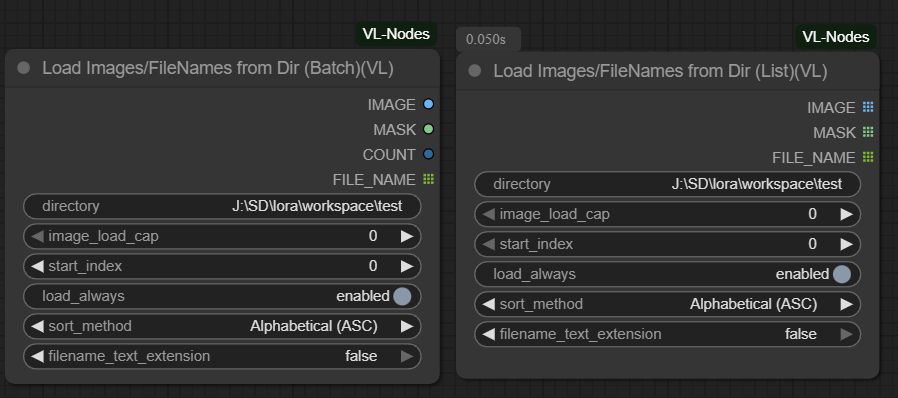
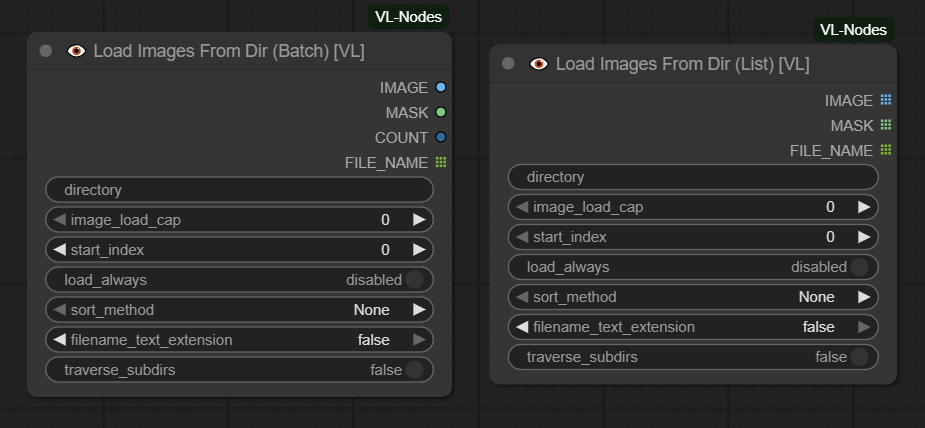
Polishing commit

Changed region(s): [[0.0, 0.0302, 0.9978, 0.9648], [0.8731, 0.0603, 0.9666, 0.1206]]

diff --git a/nodes/general_nodes.py b/nodes/general_nodes.py
@@ -48,7 +48,7 @@ class TextSave_VL:
     OUTPUT_NODE = True
     RETURN_TYPES = ()
     FUNCTION = "save_text_file"
-    CATEGORY = "VL-Nodes/Batch"
+    CATEGORY = "VL-Nodes 👁🗨/Batch"
 
     def save_text_file(self, text, path, filename_prefix='ComfyUI', filename_delimiter='_', filename_number_padding=4, file_extension='.txt', encoding='utf-8', filename_suffix='', skip_overwrite=False):
         if not os.path.exists(path):
@@ -140,7 +140,7 @@ class LoadImagesFromDirBatch_VL:
     OUTPUT_IS_LIST = (False, False, False, True)
     FUNCTION = "load_images"
 
-    CATEGORY = "VL-Nodes/Batch"
+    CATEGORY = "VL-Nodes 👁🗨/Batch"
 
     @classmethod
     def IS_CHANGED(cls, **kwargs):
@@ -278,7 +278,7 @@ class LoadImagesFromDirList_VL:
 
     FUNCTION = "load_images"
 
-    CATEGORY = "VL-Nodes/Batch"
+    CATEGORY = "VL-Nodes 👁🗨/Batch"
 
     @classmethod
     def IS_CHANGED(cls, **kwargs):
@@ -371,7 +371,7 @@ class VLNodesFreeMemoryAPI:
     RETURN_TYPES = (any_type,)
     RETURN_NAMES = ("output",)
     FUNCTION = "free_memory"
-    CATEGORY = "VL-Nodes"
+    CATEGORY = "VL-Nodes 👁🗨"
     OUTPUT_NODE = True
 
     def unload_models(self):
@@ -442,8 +442,8 @@ NODE_CLASS_MAPPINGS = {
 }
 
 NODE_DISPLAY_NAME_MAPPINGS = {
-    "VLNodesFreeMemoryAPI": "Free Memory (VL Nodes)",
-    "LoadImagesFromDirBatch_VL": "Load Images From Dir (Batch) [VL]",
-    "LoadImagesFromDirList_VL": "Load Images From Dir (List) [VL]",
-    "TextSave_VL": "Save Text Files [VL]",
+    "VLNodesFreeMemoryAPI": "👁 Free Memory (VL Nodes)",
+    "LoadImagesFromDirBatch_VL": "👁 Load Images From Dir (Batch) [VL]",
+    "LoadImagesFromDirList_VL": "👁 Load Images From Dir (List) [VL]",
+    "TextSave_VL": "👁 Save Text Files [VL]",
 }

diff --git a/nodes/gguf_nodes.py b/nodes/gguf_nodes.py
@@ -67,7 +67,7 @@ class GGUF_VLM_ModelLoader:
     RETURN_TYPES = ("GGUF_MODEL",)
     RETURN_NAMES = ("gguf_model",)
     FUNCTION = "load_model"
-    CATEGORY = "VL-Nodes/GGUF"
+    CATEGORY = "VL-Nodes 👁🗨/GGUF"
 
     def unload(self):
         """Unloads the GGUF model and releases associated resources."""
@@ -213,7 +213,7 @@ class GGUF_VLM_ImageToText:
     RETURN_NAMES = ("text", "thinking", "text_list", "thinking_list")
     OUTPUT_IS_LIST = (False, False, True, True)
     FUNCTION = "generate_description"
-    CATEGORY = "VL-Nodes/GGUF"
+    CATEGORY = "VL-Nodes 👁🗨/GGUF"
 
     def generate_description(self, gguf_model, image, resize_image, enable_thinking, system_prompt, special_captioning_token, seed, prompt, max_tokens, temperature, top_k, top_p, min_p, repeat_penalty):
         pil_images = tensor2pil(image)
@@ -350,6 +350,6 @@ NODE_CLASS_MAPPINGS = {
 }
 
 NODE_DISPLAY_NAME_MAPPINGS = {
-    "GGUF_VLM_ModelLoader": "Load GGUF VLM Model",
-    "GGUF_VLM_ImageToText": "GGUF VLM Image to Text",
+    "GGUF_VLM_ModelLoader": "👁 Load GGUF VLM Model",
+    "GGUF_VLM_ImageToText": "👁 GGUF VLM Image to Text",
 }

diff --git a/nodes/ovis25_nodes.py b/nodes/ovis25_nodes.py
@@ -63,7 +63,7 @@ class Ovis25ModelLoader:
     RETURN_TYPES = ("OVIS25_MODEL",)
     RETURN_NAMES = ("ovis25_model",)
     FUNCTION = "load_model"
-    CATEGORY = "VL-Nodes/Ovis-2.5"
+    CATEGORY = "VL-Nodes 👁🗨/Ovis-2.5"
 
     def unload(self):
         """Unloads the Ovis-2.5 model and releases associated resources."""
@@ -196,7 +196,7 @@ class Ovis25ImageToText:
     RETURN_NAMES = ("text", "thinking", "text_list", "thinking_list")
     OUTPUT_IS_LIST = (False, False, True, True)
     FUNCTION = "generate_text"
-    CATEGORY = "VL-Nodes/Ovis-2.5"
+    CATEGORY = "VL-Nodes 👁🗨/Ovis-2.5"
 
     def generate_text(self, ovis25_model, image, prompt, special_captioning_token, seed, resize_image, enable_thinking, enable_thinking_budget, max_new_tokens, thinking_budget, temperature, top_p, do_sample):
         model_data = ovis25_model
@@ -312,6 +312,6 @@ NODE_CLASS_MAPPINGS = {
 }
 
 NODE_DISPLAY_NAME_MAPPINGS = {
-    "Ovis25ModelLoader": "Load Ovis-2.5 Model",
-    "Ovis25ImageToText": "Ovis-2.5 Image to Text",
+    "Ovis25ModelLoader": "👁 Load Ovis-2.5 Model",
+    "Ovis25ImageToText": "👁 Ovis-2.5 Image to Text",
 }

diff --git a/nodes/internvl35_nodes.py b/nodes/internvl35_nodes.py
@@ -145,7 +145,7 @@ class InternVL3_5_ModelLoader:
     RETURN_TYPES = ("INTERNVL_MODEL",)
     RETURN_NAMES = ("internvl_model",)
     FUNCTION = "load_model"
-    CATEGORY = "VL-Nodes/InternVL"
+    CATEGORY = "VL-Nodes 👁🗨/InternVL"
 
     def unload(self):
         if self.model is None:
@@ -285,7 +285,7 @@ class InternVL3_5_ImageToText:
     RETURN_NAMES = ("text", "thinking", "text_list", "thinking_list")
     OUTPUT_IS_LIST = (False, False, True, True)
     FUNCTION = "generate_text"
-    CATEGORY = "VL-Nodes/InternVL"
+    CATEGORY = "VL-Nodes 👁🗨/InternVL"
 
     def generate_text(self, internvl_model, image, system_prompt, prompt, special_captioning_token, seed, max_num_tiles, max_new_tokens, do_sample, temperature, top_p, top_k):
         model = internvl_model["model"]
@@ -366,6 +366,6 @@ NODE_CLASS_MAPPINGS = {
 }
 
 NODE_DISPLAY_NAME_MAPPINGS = {
-    "InternVL3_5_ModelLoader": "Load InternVL3.5 Model",
-    "InternVL3_5_ImageToText": "InternVL3.5 Image to Text",
+    "InternVL3_5_ModelLoader": "👁 Load InternVL3.5 Model",
+    "InternVL3_5_ImageToText": "👁 InternVL3.5 Image to Text",
 }

diff --git a/nodes/keye_nodes.py b/nodes/keye_nodes.py
@@ -84,7 +84,7 @@ class KeyeModelLoader:
     RETURN_TYPES = ("KEYE_MODEL",)
     RETURN_NAMES = ("keye_model",)
     FUNCTION = "load_model"
-    CATEGORY = "VL-Nodes/Keye-VL"
+    CATEGORY = "VL-Nodes 👁🗨/Keye-VL"
 
     def unload(self):
         """Unloads the Keye model and releases associated resources."""
@@ -326,7 +326,7 @@ class KeyeNode:
     RETURN_NAMES = ("text", "thinking", "text_list", "thinking_list")
     OUTPUT_IS_LIST = (False, False, True, True)
     FUNCTION = "generate_text"
-    CATEGORY = "VL-Nodes/Keye-VL"
+    CATEGORY = "VL-Nodes 👁🗨/Keye-VL"
 
     def generate_text(self, keye_model, image, prompt, special_captioning_token, thinking_mode, resolution_control, device, max_new_tokens, temperature, top_p, do_sample, seed, **kwargs):
         model_data = keye_model
@@ -539,6 +539,6 @@ NODE_CLASS_MAPPINGS = {
 }
 
 NODE_DISPLAY_NAME_MAPPINGS = {
-    "KeyeModelLoader": "Load Keye-VL Model",
-    "KeyeNode": "Keye-VL Image to Text",
+    "KeyeModelLoader": "👁 Load Keye-VL Model",
+    "KeyeNode": "👁 Keye-VL Image to Text",
 }

diff --git a/nodes/lfm2_nodes.py b/nodes/lfm2_nodes.py
@@ -71,7 +71,7 @@ class LFM2TransformerModelLoader:
     RETURN_TYPES = ("LFM2_HF_MODEL",)
     RETURN_NAMES = ("lfm2_hf_model",)
     FUNCTION = "load_model"
-    CATEGORY = "VL-Nodes/LFM2-VL"
+    CATEGORY = "VL-Nodes 👁🗨/LFM2-VL"
 
     def unload(self):
         if self.model is None:
@@ -195,7 +195,7 @@ class LFM2TransformerImageToText:
     RETURN_NAMES = ("text", "text_list")
     OUTPUT_IS_LIST = (False, True)
     FUNCTION = "generate_text"
-    CATEGORY = "VL-Nodes/LFM2-VL"
+    CATEGORY = "VL-Nodes 👁🗨/LFM2-VL"
 
     def generate_text(self, lfm2_hf_model, image, prompt, special_captioning_token, seed, max_new_tokens, temperature, min_p, repetition_penalty):
         model = lfm2_hf_model["model"]
@@ -494,6 +494,6 @@ NODE_CLASS_MAPPINGS = {
 }
 
 NODE_DISPLAY_NAME_MAPPINGS = {
-    "LFM2TransformerModelLoader": "Load LFM2-VL HF Model",
-    "LFM2TransformerImageToText": "LFM2-VL HF Image to Text",
+    "LFM2TransformerModelLoader": "👁 Load LFM2-VL HF Model",
+    "LFM2TransformerImageToText": "👁 LFM2-VL HF Image to Text",
 }

diff --git a/nodes/ovisu1_nodes.py b/nodes/ovisu1_nodes.py
@@ -70,7 +70,7 @@ class OvisU1VLModelLoader:
     RETURN_TYPES = ("OVIS_U1_MODEL",)
     RETURN_NAMES = ("model",)
     FUNCTION = "load_model"
-    CATEGORY = "VL-Nodes/Ovis-U1"
+    CATEGORY = "VL-Nodes 👁🗨/Ovis-U1"
 
     def unload(self):
         """Unloads the Ovis-U1 model and releases associated resources."""
@@ -290,7 +290,7 @@ class OvisU1ImageCaption:
     RETURN_NAMES = ("text", "text_list")
     OUTPUT_IS_LIST = (False, True)
     FUNCTION = "generate_caption"
-    CATEGORY = "VL-Nodes/Ovis-U1"
+    CATEGORY = "VL-Nodes 👁🗨/Ovis-U1"
 
     def generate_caption(self, model, image, resize_image, prompt, special_captioning_token, seed, max_new_tokens, temperature, top_p, do_sample):
         model_data = model
@@ -397,6 +397,6 @@ NODE_CLASS_MAPPINGS = {
 }
 
 NODE_DISPLAY_NAME_MAPPINGS = {
-    "OvisU1VLModelLoader": "Load Ovis-U1 VL Model",
-    "OvisU1ImageCaption": "Ovis-U1 Image Caption",
+    "OvisU1VLModelLoader": "👁 Load Ovis-U1 VL Model",
+    "OvisU1ImageCaption": "👁 Ovis-U1 Image Caption",
 }

diff --git a/README.md b/README.md
@@ -11,7 +11,7 @@ A key feature of this custom node set is the ability to caption a whole director
 * Input is a directory with a batch of images
 * The output is a batch of single .txt files with the same name as the image with the description in it, saved in the same directory as the images
 * You can add a special token as a prefix
-* You are going to need to install the `Save Text File` node from [was-node-suite-comfyu](https://github.com/WASasquatch/was-node-suite-comfyui)
+* From version >=0.9 the node can traverse all sub directories
 * **All the model nodes were updated to support batch image captioning**
 
 ### Nodes
